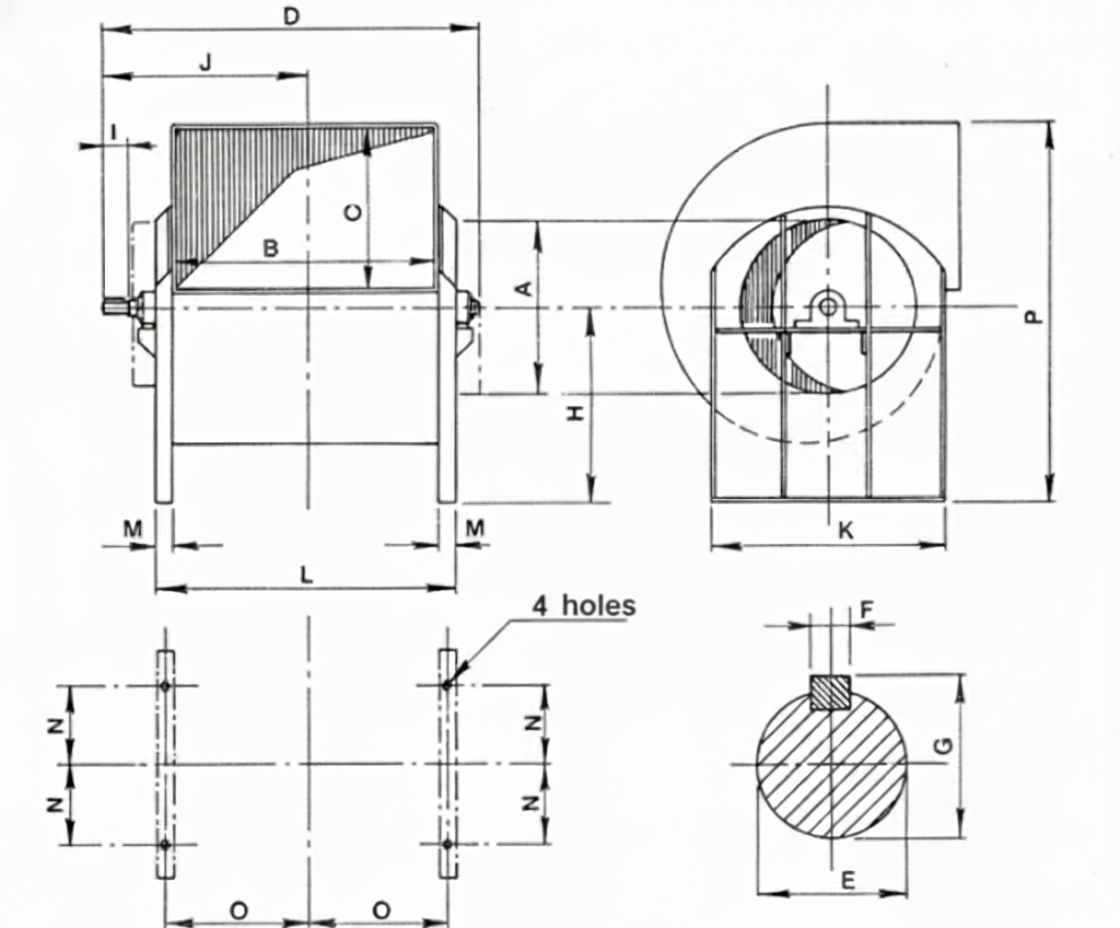
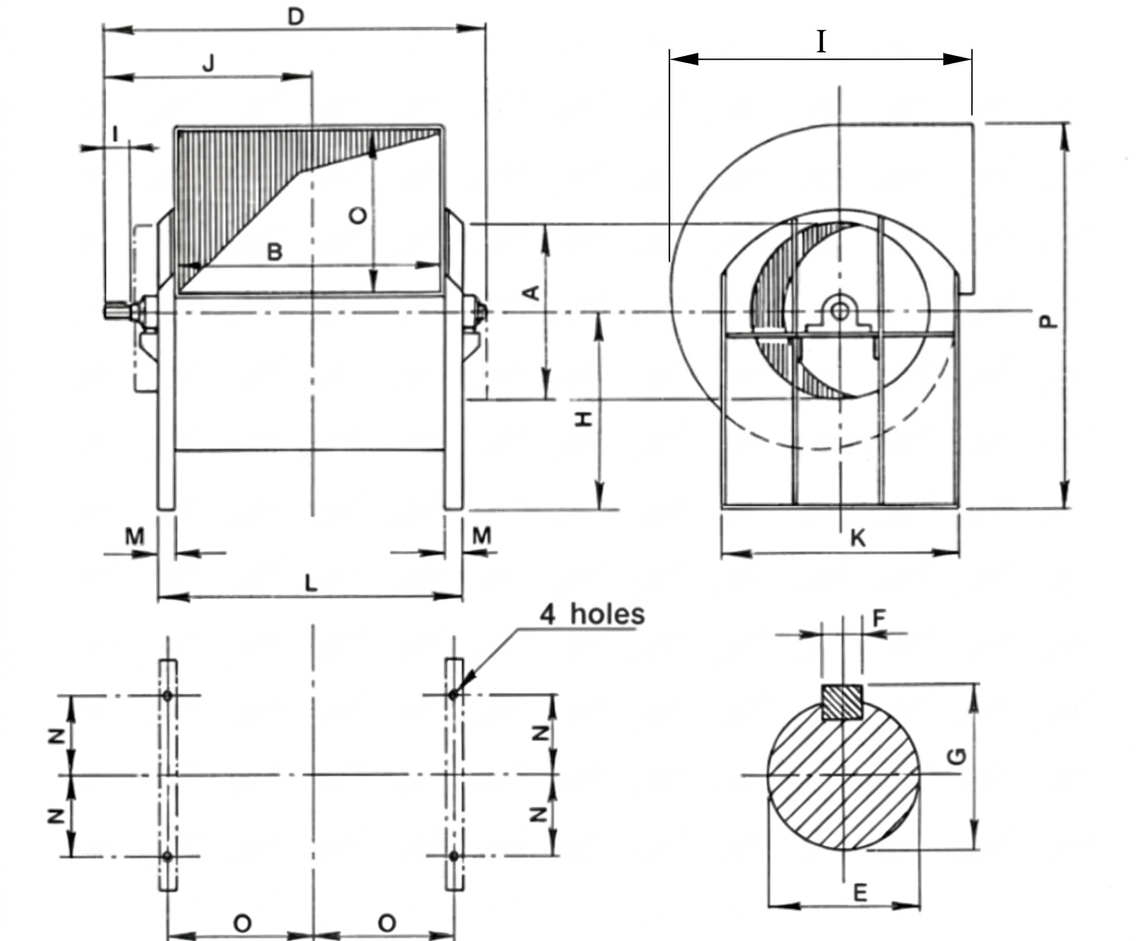
edit some dimensions

Changed region(s): [[0.5625, 0.0312, 0.625, 0.2812], [0.8125, 0.0625, 0.875, 0.0938], [0.7188, 0.0312, 0.75, 0.0625]]

diff --git a/src/Data/dimensions.js b/src/Data/dimensions.js
@@ -638,25 +638,25 @@ export const dimensionsData = {
         name: "NBR-D Dimensions",
         image: "/src/assets/dimensions/Double after.png",
         data: [
-          { model: "310", A: 330, B: 452, C: 337, D: 703, E: 22, F: 6, G: 24.5, H: 380, J: 381.7, K: 249.2, L: 534.4, M: 40, N: 150, O: 406, P: 628,},
-          { model: "340", A: 366, B: 498, C: 371, D: 765, E: 25, F: 8, G: 28, H: 415, J: 412.7, K: 272.2, L: 580.4, M: 40, N: 165, O: 432, P: 688,},
-          { model: "380", A: 403, B: 552, C: 410, D: 829, E: 30, F: 8, G: 33, H: 455, J: 444.7, K: 299.2, L: 634.4, M: 40, N: 180, O: 470, P: 756, },
-          { model: "420", A: 451, B: 605, C: 452, D: 888, E: 30, F: 8, G: 33, H: 500, J: 476.7, K: 325.7, L: 687.4, M: 40, N: 200, O: 521, P: 830, },
-          { model: "460", A: 493, B: 667, C: 501, D: 991, E: 35, F: 10, G: 38.5, H: 550, J: 538, K: 365, L: 770, M: 50, N: 210, O: 572, P: 550, },
-          { model: "500", A: 536, B: 735, C: 549, D: 1059, E: 35, F: 10, G: 38.5, H: 600, J: 572, K: 399, L: 838, M: 50, N: 225, O: 623, P: 1002, },
-          { model: "560", A: 597, B: 802, C: 612, D: 1146, E: 40, F: 12, G: 43.5, H: 665, J: 615.5, K: 432.5, L: 905, M: 50, N: 225, O: 673, P: 1111, },
-          { model: "620", A: 657, B: 885, C: 672, D: 1260, E: 45, F: 14, G: 49, H: 735, J: 682.5, K: 474.5, L: 989, M: 50, N: 235, O: 737, P: 1225, },
-          { model: "680", A: 727, B: 985, C: 739, D: 1370, E: 50, F: 14, G: 54, H: 800, J: 737.5, K: 529.5, L: 1109, M: 60, N: 280, O: 844, P: 1341, },
-          { model: "760", A: 803, B: 1086, C: 819, D: 1483, E: 55, F: 16, G: 60, H: 880, J: 794, K: 580, L: 1210, M: 60, N: 310, O: 920, P: 1480, },
-          { model: "840", A: 886, B: 1204, C: 901, D: 1638, E: 60, F: 18, G: 65, H: 965, J: 878, K: 639, L: 1328, M: 60, N: 335, O: 996, P: 1624, },
-          { model: "930", A: 981, B: 1344, C: 987, D: 1786, E: 65, F: 18, G: 70, H: 1050, J: 953, K: 709, L: 1468, M: 60, N: 365, O: 1098, P: 1775, },
-          { model: "1020", A: 1089, B: 1488, C: 1156, D: 1928, E: 65, F: 18, G: 70, H: 90, J: 927, K: 1306, L: 75, M: 75, N: 500, O: 999, P: 1638, },
-          { model: "1130", A: 1203, B: 1646, C: 1273, D: 2116, E: 70, F: 20, G: 76, H: 90, J: 1041, K: 1423, L: 75, M: 863, N: 560, O: 1078, P: 1816,},
-          { model: "1235", A: 1326, B: 1810, C: 1394, D: 2290, E: 80, F: 20, G: 76, H: 100, J: 1130, K: 1544, L: 75, M: 945, N: 620, O: 1185, P: 1994, },
-          { model: "1380", A: 1467, B: 2010, C: 1534, D: 2535, E: 90, F: 24, G: 87, H: 120, J: 1258, K: 1664, L: 100, M: 1060, N: 665, O: 1315, P: 2210, },
-          { model: "1518", A: 1623, B: 2220, C: 1692, D: 2800, E: 100, F: 24, G: 97, H: 140, J: 1385, K: 1822, L: 100, M: 1165, N: 740, O: 1440, P: 2426, },
-          { model: "1680", A: 1783, B: 2240, C: 1851, D: 3070, E: 100, F: 28, G: 108, H: 160, J: 1512, K: 2011, L: 120, M: 1285, N: 825, O: 1570, P: 2654, },
-          { model: "1850", A: 1972, B: 2693, C: 2042, D: 3353, E: 100, F: 28, G: 108, H: 160, J: 1778, K: 2202, L: 120, M: 1411.5, N: 895, O: 1731.5, P: 2921,}
+          { model: "310", A: 330, B: 452, C: 337, D: 703, E: 22, F: 6, G: 24.5, H: 380, I: 562 , J: 381.7, K: 249.2, L: 534.4, M: 40, N: 150, O: 406, P: 628,},
+          { model: "340", A: 366, B: 498, C: 371, D: 765, E: 25, F: 8, G: 28, H: 415, I: 613 , J: 412.7, K: 272.2, L: 580.4, M: 40, N: 165, O: 432, P: 688,},
+          { model: "380", A: 403, B: 552, C: 410, D: 829, E: 30, F: 8, G: 33, H: 455, I: 670 , J: 444.7, K: 299.2, L: 634.4, M: 40, N: 180, O: 470, P: 756, },
+          { model: "420", A: 451, B: 605, C: 452, D: 888, E: 30, F: 8, G: 33, H: 500, I: 730 , J: 476.7, K: 325.7, L: 687.4, M: 40, N: 200, O: 521, P: 830, },
+          { model: "460", A: 493, B: 667, C: 501, D: 991, E: 35, F: 10, G: 38.5, H: 550, I: 826.5 , J: 538, K: 365, L: 770, M: 50, N: 210, O: 572, P: 550, },
+          { model: "500", A: 536, B: 735, C: 549, D: 1059, E: 35, F: 10, G: 38.5, H: 600, I: 896 , J: 572, K: 399, L: 838, M: 50, N: 225, O: 623, P: 1002, },
+          { model: "560", A: 597, B: 802, C: 612, D: 1146, E: 40, F: 12, G: 43.5, H: 665, I: 988 , J: 615.5, K: 432.5, L: 905, M: 50, N: 225, O: 673, P: 1111, },
+          { model: "620", A: 657, B: 885, C: 672, D: 1260, E: 45, F: 14, G: 49, H: 735, I: 1079 , J: 682.5, K: 474.5, L: 989, M: 50, N: 235, O: 737, P: 1225, },
+          { model: "680", A: 727, B: 985, C: 739, D: 1370, E: 50, F: 14, G: 54, H: 800, I: 1178 , J: 737.5, K: 529.5, L: 1109, M: 60, N: 280, O: 844, P: 1341, },
+          { model: "760", A: 803, B: 1086, C: 819, D: 1483, E: 55, F: 16, G: 60, H: 880, I: 1321 , J: 794, K: 580, L: 1210, M: 60, N: 310, O: 920, P: 1480, },
+          { model: "840", A: 886, B: 1204, C: 901, D: 1638, E: 60, F: 18, G: 65, H: 965, I: 1439 , J: 878, K: 639, L: 1328, M: 60, N: 335, O: 996, P: 1624, },
+          { model: "930", A: 981, B: 1344, C: 987, D: 1786, E: 65, F: 18, G: 70, H: 1050, I: 1572 , J: 953, K: 709, L: 1468, M: 60, N: 365, O: 1098, P: 1775, },
+          { model: "1020", A: 1089, B: 1488, C: 1156, D: 1928, E: 65, F: 18, G: 70, H: 90, I: 1706 , J: 927, K: 1306, L: 75, M: 75, N: 500, O: 999, P: 1638, },
+          { model: "1130", A: 1203, B: 1646, C: 1273, D: 2116, E: 70, F: 20, G: 76, H: 90, I: 1875 , J: 1041, K: 1423, L: 75, M: 863, N: 560, O: 1078, P: 1816,},
+          { model: "1240", A: 1326, B: 1810, C: 1394, D: 2290, E: 80, F: 20, G: 76, H: 100, I: 2053 , J: 1130, K: 1544, L: 75, M: 945, N: 620, O: 1185, P: 1994, },
+          { model: "1380", A: 1467, B: 2010, C: 1534, D: 2535, E: 90, F: 24, G: 87, H: 120, I: 2259 , J: 1258, K: 1664, L: 100, M: 1060, N: 665, O: 1315, P: 2210, },
+          { model: "1520", A: 1623, B: 2220, C: 1692, D: 2800, E: 100, F: 24, G: 97, H: 140, I: 2488 , J: 1385, K: 1822, L: 100, M: 1165, N: 740, O: 1440, P: 2426, },
+          { model: "1680", A: 1783, B: 2240, C: 1851, D: 3070, E: 100, F: 28, G: 108, H: 160, I: 2725 , J: 1512, K: 2011, L: 120, M: 1285, N: 825, O: 1570, P: 2654, },
+          { model: "1850", A: 1972, B: 2693, C: 2042, D: 3353, E: 100, F: 28, G: 108, H: 160, I: 3002 , J: 1778, K: 2202, L: 120, M: 1411.5, N: 895, O: 1731.5, P: 2921,}
           ],
           columns: [
             { key: "model", label: "MODEL/DIM. (mm)" },
@@ -668,6 +668,7 @@ export const dimensionsData = {
             { key: "F", label: "F" },
           { key: "G", label: "G" },
           { key: "H", label: "H" },
+           { key: "I", label: "I" },
           { key: "J", label: "J" },
           { key: "K", label: "K" },
           { key: "L", label: "L" },
@@ -688,25 +689,25 @@ export const dimensionsData = {
         name: "NBS-D Fan Section Type",
         image: "/src/assets/dimensions/fanSection.jpg",
         data: [
-          { model: "310", A: 930, B: 992, C: 930, D: 459, E: 372 },
-          { model: "340", A: 930, B: 992, C: 930, D: 459, E: 372 },
-          { model: "380", A: 930, B: 992, C: 930, D: 459, E: 372 },
-          { model: "420", A: 1260, B: 1344, C: 1260, D: 621, E: 504 },
-          { model: "460", A: 1260, B: 1344, C: 1260, D: 622, E: 504 },
-          { model: "500", A: 1260, B: 1344, C: 1260, D: 623, E: 504 },
-          { model: "560", A: 1680, B: 1792, C: 1680, D: 829, E: 672 },
-          { model: "620", A: 1680, B: 1792, C: 1680, D: 829, E: 672 },
-          { model: "680", A: 1680, B: 1792, C: 1680, D: 829, E: 672 },
-          { model: "760", A: 2280, B: 2432, C: 2280, D: 1125, E: 912 },
-          { model: "840", A: 2280, B: 2432, C: 2280, D: 1125, E: 912 },
-          { model: "930", A: 2280, B: 2432, C: 2280, D: 1125, E: 912 },
-          { model: "1020", A: 3060, B: 3264, C: 3060, D: 1510, E: 1224 },
-          { model: "1130", A: 3060, B: 3264, C: 3060, D: 1510, E: 1224 },
-          { model: "1240", A: 3720, B: 3968, C: 3720, D: 1836, E: 1488 },
-          { model: "1380", A: 3720, B: 3968, C: 3720, D: 1836, E: 1488 },
-          { model: "1520", A: 4560, B: 4864, C: 5543, D: 2250, E: 1824 },
-          { model: "1680", A: 4560, B: 4864, C: 5543, D: 2250, E: 1824 },
-          { model: "1850", A: 5550, B: 5920, C: 5550, D: 2738.486842, E: 2220 }
+          { model: "310", A: 1020, B: 1088, C: 1020, D: 452, E: 337 },
+          { model: "340", A: 1020, B: 1088, C: 1020, D: 498, E: 371 },
+          { model: "380", A: 1260, B: 1344, C: 1260, D: 552, E: 410 },
+          { model: "420", A: 1260, B: 1344, C: 1260, D: 605, E: 452 },
+          { model: "460", A: 1500, B: 1600, C: 1500, D: 667, E: 501 },
+          { model: "500", A: 1500, B: 1600, C: 1500, D: 735, E: 549 },
+          { model: "560", A: 1860, B: 1984, C: 1860, D: 802, E: 612 },
+          { model: "620", A: 1860, B: 1984, C: 1860, D: 885, E: 672 },
+          { model: "680", A: 2280, B: 2432, C: 2280, D: 985, E: 739 },
+          { model: "760", A: 2280, B: 2432, C: 2280, D: 1086, E: 819 },
+          { model: "840", A: 2790, B: 2976, C: 2790, D: 1204, E: 901 },
+          { model: "930", A: 2790, B: 2976, C: 2790, D: 1344, E: 987 },
+          { model: "1020", A: 3390, B: 3616, C: 3390, D: 1488, E: 1156 },
+          { model: "1130", A: 3390, B: 3616, C: 3390, D: 1646, E: 1273 },
+          { model: "1240", A: 4140, B: 4416, C: 4140, D: 1810, E: 1394 },
+          { model: "1380", A: 4140, B: 4416, C: 4140, D: 2010, E: 1534 },
+          { model: "1520", A: 5040, B: 5376, C: 5040, D: 2220, E: 1692 },
+          { model: "1680", A: 5040, B: 5376, C: 5040, D: 2240, E: 1851 },
+          { model: "1850", A: 5040, B: 5376, C: 5040, D: 2693, E: 2042 }
         ],
         columns: [
           { key: "model", label: "MODEL/DIM. (mm)" },

diff --git a/src/Components/Control/AllModels.jsx b/src/Components/Control/AllModels.jsx
@@ -8,15 +8,15 @@ const AllModels = () => {
   const [formData, setFormData] = useState({
     type: '',
     name: '',
-    factor: 0,
-    startRpmNumber: 0,
-    endRpmNumber: 0,
+    factor: '',
+    startRpmNumber: '',
+    endRpmNumber: '',
     // Centrifugal-only fields
     pressureType: '',
     configurationType: '',
     centrifugalType: '',
     points: [
-      { rpm: 0, flowRate: 0, totalPressure: 0, efficiency: 0, lpa: 0 }
+      { rpm: '', flowRate: '', totalPressure: '', efficiency: '', lpa: '' }
     ]
   })
   const [originalData, setOriginalData] = useState(null)
@@ -160,7 +160,7 @@ const AllModels = () => {
   const addPoint = () => {
     setFormData({
       ...formData,
-      points: [...formData.points, { rpm: 0, flowRate: 0, totalPressure: 0, efficiency: 0, lpa: 0 }]
+      points: [...formData.points, { rpm: '', flowRate: '', totalPressure: '', efficiency: '', lpa: '' }]
     })
   }
 

diff --git a/src/Pages/FlowSearch.jsx b/src/Pages/FlowSearch.jsx
@@ -1,7 +1,7 @@
 import { useState, useEffect } from 'react';
 import { useRef } from 'react';
 import { jsPDF } from 'jspdf';
-import AxialCategoryImg from '../assets/symbol-axial.png';
+import AxialCategoryImg from '../assets/axial-sym.png';
 import CentrifugalCategoryImg from '../assets/symbol-centrifugal.webp';
 import NEI2DCatalog from '../assets/NEI2D-catalog.pdf';
 import { useSelector } from 'react-redux';
